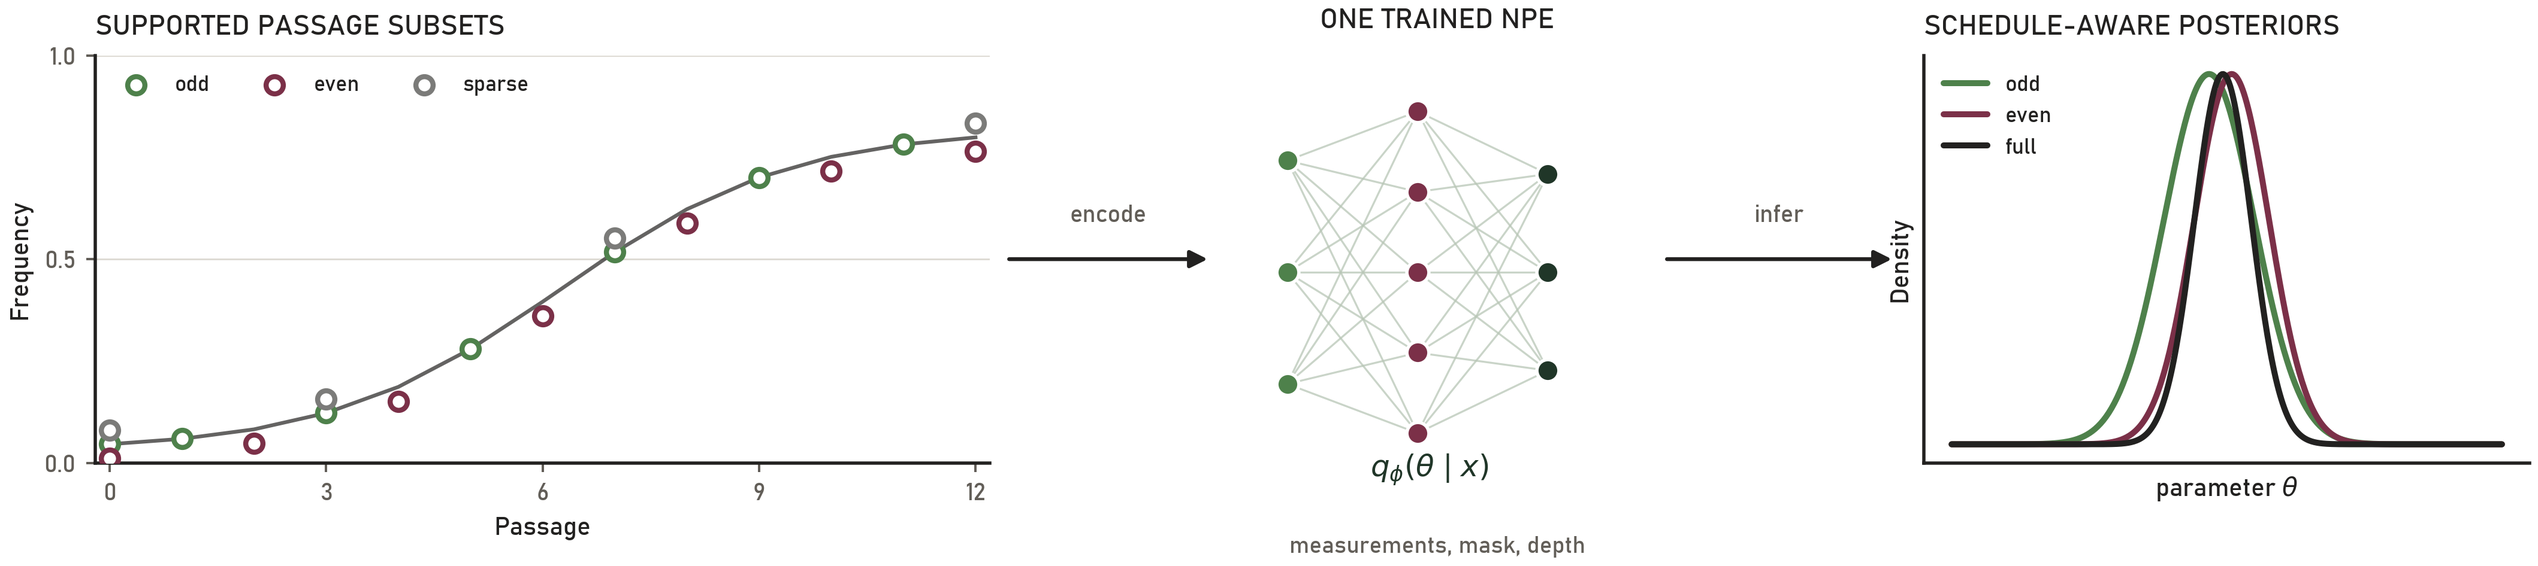
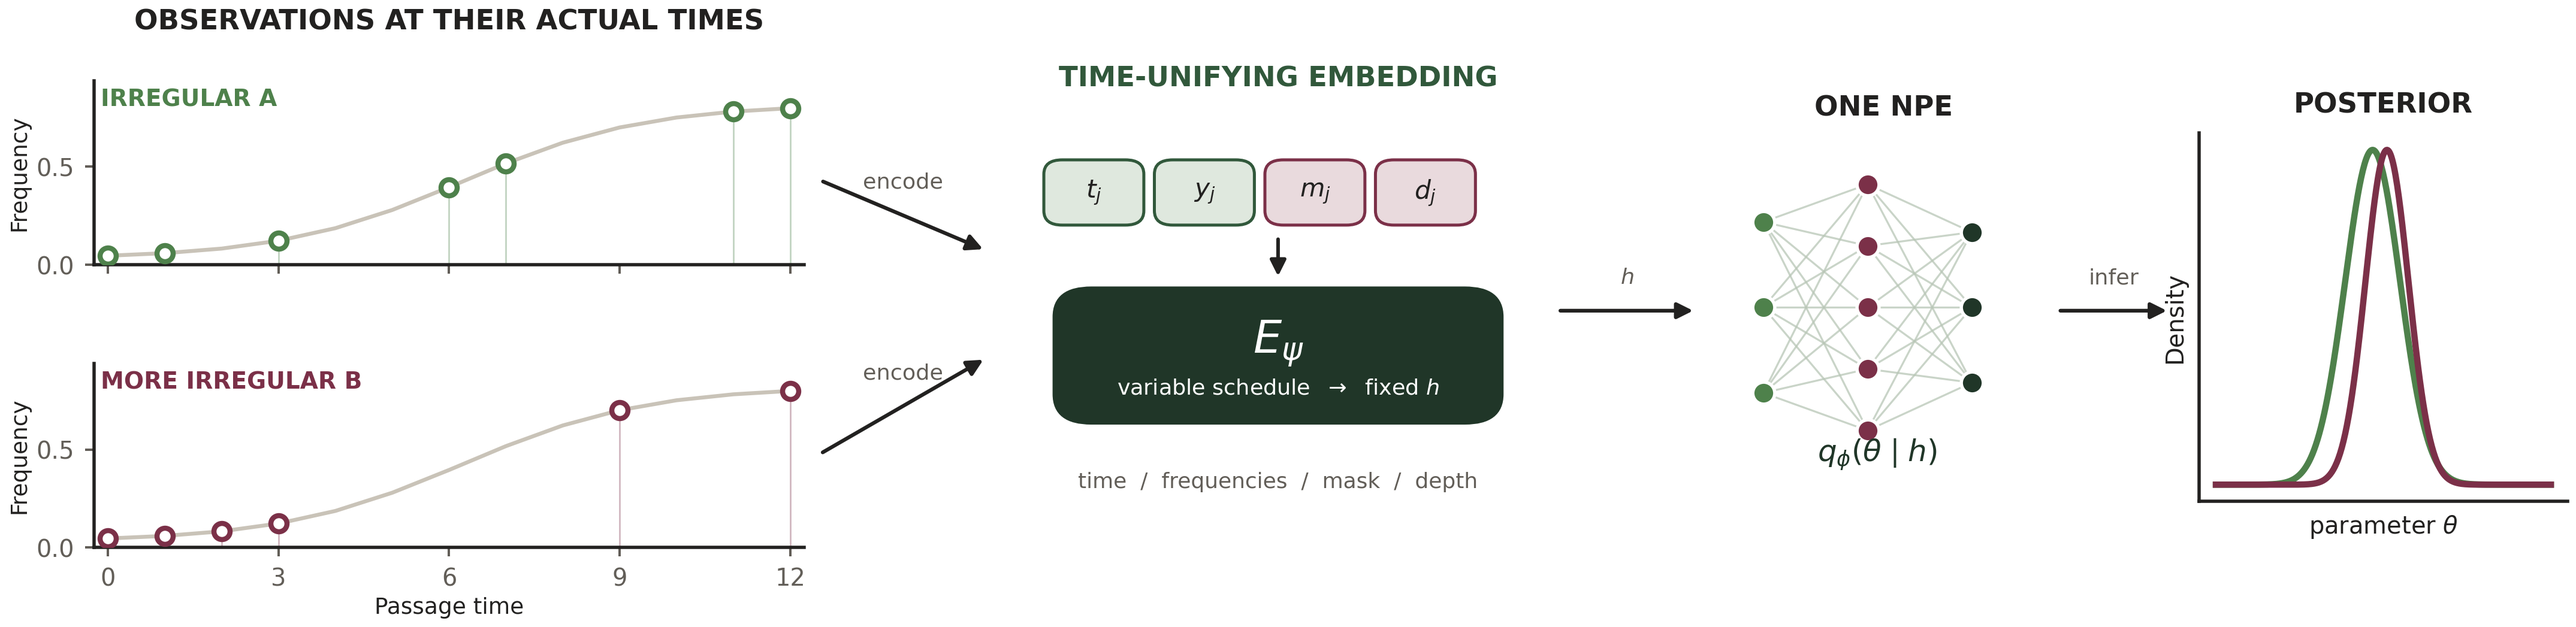
Refine SBI flow and inference extensions

diff --git a/workshop_site/poster/index.html b/workshop_site/poster/index.html
@@ -8,7 +8,7 @@
   <title>Interactive poster · Simulation-Based Inference for Microbial Evolution</title>
   <meta name="description" content="An interactive companion to the MMPC poster: learn SBI, try ABC, explore collective and schedule-flexible inference, and open the Candida and MS2 case studies.">
   <link rel="icon" href="../assets/favicon.svg">
-  <link rel="stylesheet" href="poster.css?v=20260907a">
+  <link rel="stylesheet" href="poster.css?v=74e55d94efbd">
   <noscript><style>.needs-js{display:none!important}.noscript-note{display:block!important}</style></noscript>
 </head>
 <body>
@@ -31,11 +31,14 @@
       <div class="hero-copy">
         <p class="eyebrow">MMPC · University of Minnesota</p>
         <h1>Simulation-Based Inference<br>for Microbial Evolution</h1>
-        <p class="lede">Move through the inference idea, fit a model yourself, and then open the biology behind the <em>Candida albicans</em> and MS2 examples.</p>
+        <p class="lede">This is the poster you can run: animate the SBI logic, fit an evolution model yourself, stress-test richer inference, and then open the biology behind the <em>Candida albicans</em> and MS2 studies.</p>
         <p class="authors">Nadav Ben Nun · Xin Zhou · Yael Maoz · Adi Stern · Anna Selmecki · Yoav Ram</p>
+        <ul class="experience-list" aria-label="Interactive experiences on this page">
+          <li>Animate SBI</li><li>Try ABC</li><li>Challenge the extensions</li><li>Explore both studies</li>
+        </ul>
         <div class="hero-actions">
           <a class="button primary" href="#sbi">Start with SBI <span aria-hidden="true">↓</span></a>
-          <a class="button secondary" href="#cases">Choose a case study</a>
+          <a class="button secondary" href="#abc">Run the ABC lab</a>
         </div>
       </div>
       <div class="hero-visual" aria-hidden="true">
@@ -100,7 +103,7 @@
 
       <div class="story-intro">
         <div><p class="eyebrow">The workaround</p><h3>SBI in one glance</h3></div>
-        <p>Draw from the prior, simulate forward, learn from paired examples, then infer from the observed experiment.</p>
+        <p>Follow the complete flow, then play each inference step at your own pace.</p>
       </div>
 
       <div class="story-shell needs-js" id="sbi-story">
@@ -119,22 +122,11 @@
           </div>
 
           <div class="story-visual" data-active-step="0">
-            <div class="story-panel sampling-panel" data-panel="0" aria-label="Prior parameter draws feeding simulated allele-frequency trajectories">
-              <div class="story-prior-mini">
-                <span class="mini-label">PRIOR DRAWS</span>
-                <svg viewBox="0 0 240 220" role="img" aria-label="Prior density with five parameter draws">
-                  <line x1="28" y1="184" x2="222" y2="184" class="sampling-axis"/>
-                  <line x1="28" y1="184" x2="28" y2="24" class="sampling-axis"/>
-                  <path d="M31 181 C62 177 76 147 93 101 C108 60 126 38 145 59 C167 83 172 146 219 180" class="prior-density"/>
-                  <g class="prior-draws"><line x1="77" y1="184" x2="77" y2="139"/><line x1="105" y1="184" x2="105" y2="76"/><line x1="134" y1="184" x2="134" y2="49"/><line x1="160" y1="184" x2="160" y2="88"/><line x1="188" y1="184" x2="188" y2="154"/></g>
-                  <text x="125" y="214">parameter θ</text>
-                </svg>
-              </div>
-              <span class="sampling-arrow" aria-hidden="true">→</span>
-              <div class="story-simulations">
-                <span class="mini-label">SIMULATED HISTORIES</span>
-                <canvas id="story-trajectories" width="720" height="380"></canvas>
-              </div>
+            <div class="story-panel sampling-panel" data-panel="0" aria-label="Prior above simulated histories, with parameter draws and simulations entering the neural estimator and producing a posterior">
+              <figure class="story-pipeline-figure">
+                <img src="assets/sbi_pipeline.png?v=de7eee4f866d" alt="SBI flow: prior draws point down to simulated evolutionary histories; separate diagonal arrows carry parameters and simulations into the network; the observed experiment then produces a negatively correlated joint posterior">
+                <figcaption>The parameter draw generates a simulated history; the pair (θᵢ, xᵢ) trains the estimator.</figcaption>
+              </figure>
             </div>
 
             <div class="story-panel neural-panel" data-panel="1" aria-label="Neural density estimator connecting simulated data and parameters">
@@ -244,8 +236,8 @@
             <a href="../sbi.html#collective-outlier-lab">Stress-test a collective posterior <span aria-hidden="true">↗</span></a>
           </div>
           <figure>
-            <img src="assets/collective_extension.png?v=08ee2a17ee57" alt="Replicate trajectories leading to individual posterior distributions, a robust collective posterior, and posterior predictive trajectories">
-            <figcaption>Replicates → individual posteriors → robust pooling → predictive check</figcaption>
+            <img src="assets/collective_extension.png?v=f1d48b55625d" alt="The supplied five-panel collective-posterior figure: replicate trajectories, individual posteriors, naive pooling, robust collective pooling, and predictive checks">
+            <figcaption>The original collective-posterior figure: individual posteriors → naive pooling → robust pooling → predictive checks</figcaption>
           </figure>
         </article>
 
@@ -253,13 +245,13 @@
           <div class="extension-copy">
             <p class="mini-label">FLEXIBLE NPE</p>
             <h3>Reuse one estimator across supported sampling schedules</h3>
-            <p>During training, each trajectory is shown through many passage masks. At inference, measurements travel with the mask, depth, and initial composition, so “not measured” remains distinct from zero.</p>
-            <p class="extension-boundary">Gain: supported subsets of passages 0–12 can be analyzed without retraining; this is not extrapolation to a new assay or an unseen time horizon.</p>
+            <p><strong>The time-unifying embedding is the key.</strong> It receives every observation with its passage time, state frequencies, mask, and depth, then compresses a variable schedule into one fixed-length representation for the shared NPE.</p>
+            <p class="extension-boundary"><strong>Training cost:</strong> 200,000 simulated trajectories become 800,000 schedule-varied views per estimator. The payoff is fast inference—one forward pass for any supported subset of passages 0–12, without retraining.</p>
             <a href="../sbi.html#zhou-schedule-designer">Design a passage schedule <span aria-hidden="true">↗</span></a>
           </div>
           <figure>
-            <img src="assets/flexible_extension.png?v=7b72e6e56991" alt="Odd, even, and sparse passage schedules encoded for one neural posterior estimator and producing schedule-aware posterior distributions">
-            <figcaption>Measurements + mask + depth → one estimator → schedule-aware posterior</figcaption>
+            <img src="assets/flexible_extension.png?v=d7323b15cf75" alt="Two increasingly irregular passage schedules feeding time, frequency, mask, and depth tokens into a time-unifying embedding, followed by one NPE and two schedule-aware posteriors">
+            <figcaption>Irregular observations at their actual times → time-unifying embedding → one NPE → posterior</figcaption>
           </figure>
         </article>
       </div>
@@ -325,6 +317,6 @@
   </footer>
 
   <script src="../js/science.js" defer></script>
-  <script src="poster.js?v=20260907a" defer></script>
+  <script src="poster.js?v=befe0421529f" defer></script>
 </body>
 </html>

diff --git a/workshop_site/poster/poster.css b/workshop_site/poster/poster.css
@@ -67,6 +67,9 @@ h1{max-width:900px;margin:18px 0 26px;font-family:Georgia,"Times New Roman",seri
 h1 br{display:block}
 .lede{max-width:720px;margin-bottom:22px;color:var(--muted);font-size:clamp(1.05rem,1.5vw,1.35rem);line-height:1.65}
 .authors{max-width:760px;margin-bottom:34px;font-size:.92rem;font-weight:650;color:var(--blue-dark)}
+.experience-list{display:flex;flex-wrap:wrap;gap:8px 9px;margin:-16px 0 28px;padding:0;list-style:none}
+.experience-list li{display:inline-flex;align-items:center;gap:8px;padding:7px 11px;border:1px solid rgba(49,88,59,.2);border-radius:999px;background:rgba(255,255,255,.48);color:var(--blue-deep);font-size:.72rem;font-weight:800;letter-spacing:.025em}
+.experience-list li:before{content:"";width:6px;height:6px;border-radius:50%;background:var(--terra)}
 .hero-actions{display:flex;flex-wrap:wrap;gap:12px}
 .button{display:inline-flex;align-items:center;justify-content:center;gap:13px;min-height:50px;padding:0 22px;border:1px solid transparent;border-radius:999px;text-decoration:none;font-weight:800;cursor:pointer;transition:transform .2s ease,box-shadow .2s ease,background .2s ease}
 .button:hover{transform:translateY(-2px)}
@@ -186,7 +189,10 @@ h1 br{display:block}
 .state-arrow small{display:block;margin-top:8px;font-weight:750}
 .state-panel:after{content:"";position:absolute;left:15%;top:48%;width:10px;height:10px;border-radius:50%;background:var(--terra);animation:move-state 2.2s ease-in-out infinite}
 .fitness-tag{position:absolute;bottom:84px;padding:10px 18px;border-radius:999px;background:var(--white);box-shadow:0 8px 25px rgba(24,55,67,.09);font-family:Georgia,serif;font-style:italic;color:var(--blue-dark)}
-.sampling-panel{grid-template-columns:minmax(150px,.46fr) 52px minmax(330px,1fr);align-items:center;gap:14px}
+.sampling-panel{display:grid;place-items:center;padding:30px}
+.story-pipeline-figure{width:100%;margin:0}
+.story-pipeline-figure img{display:block;width:100%;height:auto;max-height:455px;object-fit:contain}
+.story-pipeline-figure figcaption{margin:10px 7% 0;color:var(--muted);font-size:.75rem;font-weight:750;line-height:1.45;text-align:center}
 .story-prior-mini,.story-simulations{width:100%}
 .story-prior-mini .mini-label,.story-simulations .mini-label{display:block;margin-bottom:9px}
 .story-prior-mini svg{display:block;width:100%;height:auto;overflow:visible}
@@ -221,8 +227,8 @@ h1 br{display:block}
 .posterior-panel .axis-label{fill:var(--muted);font-size:16px;font-weight:750}
 .posterior-panel .tradeoff-label{fill:#4e814b;font-size:15px;font-weight:800}
 
-.extension-grid{display:grid;grid-template-columns:1fr 1fr;gap:24px;max-width:1480px;margin:auto}
-.extension-card{display:grid;grid-template-rows:auto 1fr;min-width:0;border-top:4px solid var(--terra-dark);background:var(--paper);box-shadow:0 18px 48px rgba(46,43,40,.08)}
+.extension-grid{display:grid;grid-template-columns:1fr;gap:26px;max-width:1480px;margin:auto}
+.extension-card{display:grid;grid-template-columns:minmax(340px,.66fr) minmax(0,1.34fr);grid-template-rows:1fr;align-items:center;min-width:0;border-top:4px solid var(--terra-dark);background:var(--paper);box-shadow:0 18px 48px rgba(46,43,40,.08)}
 .extension-card.flexible-extension{border-top-color:var(--blue-dark)}
 .extension-copy{padding:32px 34px 18px}
 .extension-copy h3{max-width:620px;margin:10px 0 17px;font-family:Georgia,serif;font-size:clamp(1.9rem,2.8vw,3.15rem);font-weight:500;line-height:1.03;letter-spacing:-.035em}
@@ -231,7 +237,7 @@ h1 br{display:block}
 .extension-copy a{display:inline-flex;align-items:center;gap:9px;margin-top:6px;color:var(--terra-dark);font-size:.82rem;font-weight:850;text-decoration:none}
 .flexible-extension .extension-copy a{color:var(--blue-dark)}
 .extension-copy a:hover{text-decoration:underline;text-underline-offset:4px}
-.extension-card figure{display:flex;flex-direction:column;justify-content:flex-end;margin:0;padding:5px 22px 24px;min-width:0}
+.extension-card figure{display:flex;flex-direction:column;justify-content:center;margin:0;padding:28px 26px 26px 6px;min-width:0}
 .extension-card img{display:block;width:100%;height:auto;background:#fff}
 .extension-card figcaption{margin-top:10px;color:var(--muted);font-size:.72rem;font-weight:750;letter-spacing:.02em}
 
@@ -310,7 +316,7 @@ footer{display:flex;justify-content:space-between;gap:30px;padding-top:40px;padd
   .hero,.section{padding-left:20px;padding-right:20px}.hero{padding-top:45px;padding-bottom:65px;gap:45px}h1{font-size:clamp(3rem,15vw,5.5rem)}.hero-visual{min-height:350px}.candida-cell{transform:scale(.78) rotate(-10deg);transform-origin:left top}.theta-chip{font-size:1rem}.phage{transform:scale(.8);transform-origin:right bottom}
   .section{padding-top:78px;padding-bottom:82px}.section-heading{margin-bottom:34px}
   .why-sbi-argument{grid-template-columns:1fr;gap:15px;margin-bottom:64px}.ingredient-card{min-height:auto}.likelihood-knot{width:180px;min-height:180px;margin:-6px auto}.likelihood-knot:before,.likelihood-knot:after{left:50%;right:auto;top:auto;width:2px;height:20px}.likelihood-knot:before{bottom:100%}.likelihood-knot:after{top:100%}.computable-question{grid-column:1;grid-template-columns:1fr;gap:8px;text-align:center}.computable-question i{transform:rotate(90deg)}.story-intro{grid-template-columns:1fr;gap:14px}.story-intro>p{margin:0}
-  .story-tabs{grid-template-columns:repeat(3,1fr)}.story-tabs button{padding:12px 8px;gap:7px}.story-tabs button span{font-size:.68rem}.story-tabs b{min-width:25px;padding-right:7px}.story-visual{min-height:430px}.story-panel{padding:24px}.sampling-panel{grid-template-columns:1fr;align-content:center;gap:8px}.story-prior-mini{display:none}.sampling-arrow{display:none}.neural-panel{grid-template-columns:.62fr 1fr .68fr;gap:9px}.network-feeds span{min-height:55px;padding:8px;font-size:1rem}.network-output b{font-size:1rem}
+  .story-tabs{grid-template-columns:repeat(3,1fr)}.story-tabs button{padding:12px 8px;gap:7px}.story-tabs button span{font-size:.68rem}.story-tabs b{min-width:25px;padding-right:7px}.story-visual{min-height:430px}.story-panel{padding:24px}.sampling-panel{align-content:center;gap:8px;padding:15px}.story-pipeline-figure figcaption{margin-left:0;margin-right:0}.story-prior-mini{display:none}.sampling-arrow{display:none}.neural-panel{grid-template-columns:.62fr 1fr .68fr;gap:9px}.network-feeds span{min-height:55px;padding:8px;font-size:1rem}.network-output b{font-size:1rem}
   .abc-controls{display:block}.abc-results{grid-template-columns:1fr}.abc-summary{grid-template-columns:1fr 1fr}.abc-summary p{grid-column:1/-1}
   .plot-card{padding:17px}.plot-heading{display:block}.plot-key{margin-top:11px}
   .extension-grid{gap:16px}.extension-card{display:block}.extension-copy{padding:25px 22px 12px}.extension-card figure{padding:8px 12px 22px}.extension-copy h3{font-size:2rem}

diff --git a/workshop_site/poster/poster.js b/workshop_site/poster/poster.js
@@ -83,7 +83,7 @@
   const story={
     titles:["Draw parameters and simulate","Learn from paired examples","Infer the joint posterior"],
     texts:[
-      "Draw θ from the prior, send each draw through the mechanistic model, and repeat. Each training example contains both the parameter value and its simulated evolutionary trajectory.",
+      "Draw θ from the prior and send it down through the mechanistic model to generate x. The separate diagonal arrows show the complete training pair: both θᵢ and xᵢ enter the neural estimator.",
       "Feed the paired parameter draw θᵢ and simulation xᵢ into a conditional density estimator. The network learns which parameter values are compatible with a trajectory.",
       "Pass the observed experiment to the trained estimator to infer a joint posterior. Four KDE levels show which parameter pairs remain plausible; their tilt reveals a negative trade-off."
     ]
